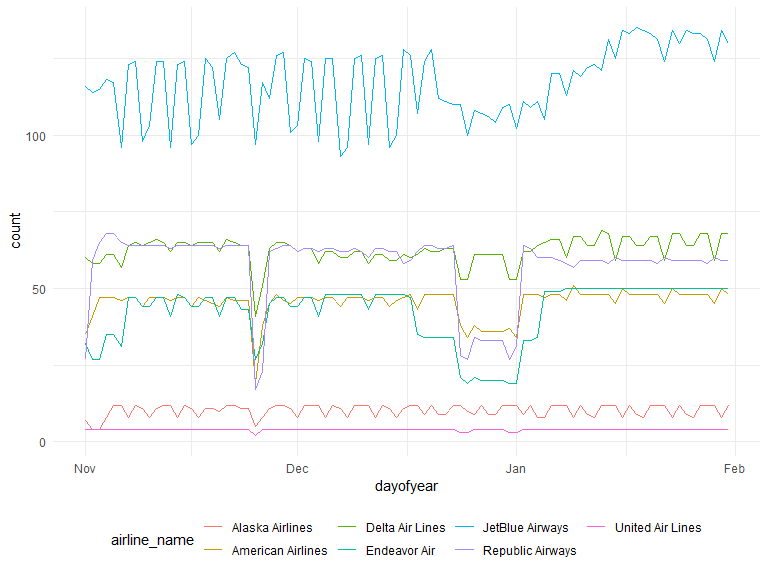
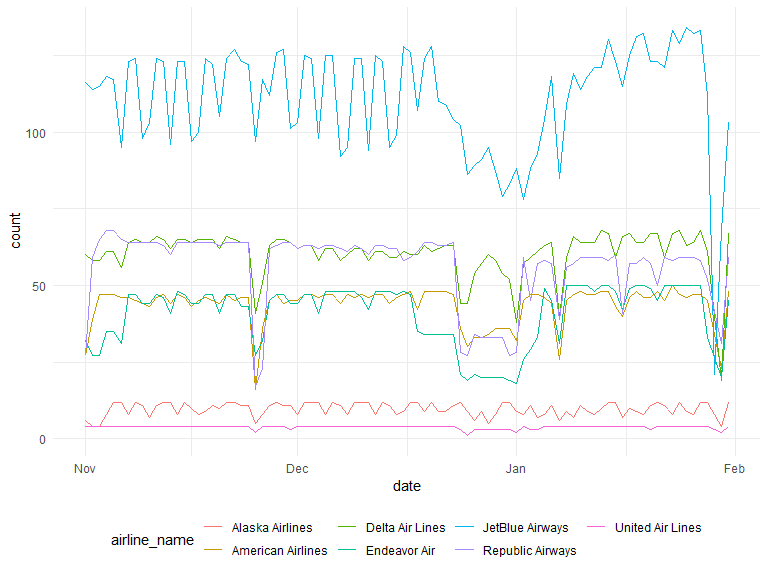
Update some visualization plots.

diff --git a/viz_and_eda.md b/viz_and_eda.md
@@ -3,53 +3,53 @@ Visualization and EDA
 
 ``` r
 delay %>% 
-  mutate(
-    date = as.numeric(date),
-    month = as.numeric(month),
-    month_date = str_c(year, month, date, sep = "-"),
-    dayofyear = as.Date(month_date)
-  ) %>% 
-  group_by(dayofyear, airline_name) %>% 
+  group_by(date, airline_name) %>% 
   summarize(
     count = n()
   ) %>% 
-  ggplot(aes(x = dayofyear, y = count, color = airline_name)) +
+  ggplot(aes(x = date, y = count, color = airline_name)) +
   geom_line()
 ```
 
-    ## `summarise()` has grouped output by 'dayofyear'. You can override using the
+    ## `summarise()` has grouped output by 'date'. You can override using the
     ## `.groups` argument.
 
 <img src="viz_and_eda_files/figure-gfm/unnamed-chunk-1-1.png" width="90%" />
 
 ``` r
-cancel_line = cancelation %>% 
-    mutate(
-    date = as.numeric(date),
-    month = as.numeric(month),
-    month_date = str_c(year, month, date, sep = "-"),
-    dayofyear = as.Date(month_date)
-  ) %>% 
-  group_by(dayofyear, airline_name) %>% 
+delay %>% 
+  filter(delay_minutes < 120, airline_name == "JetBlue Airways") %>% 
+  ggplot(aes(x = as.factor(month), y = delay_minutes)) +
+  geom_boxplot()
+```
+
+<img src="viz_and_eda_files/figure-gfm/unnamed-chunk-1-2.png" width="90%" />
+
+``` r
+delay %>% 
+  filter(delay_minutes < 0) %>% 
+  ggplot(aes(x = as.factor(month), y = delay_minutes)) +
+  geom_boxplot()
+```
+
+<img src="viz_and_eda_files/figure-gfm/unnamed-chunk-1-3.png" width="90%" />
+
+``` r
+cancel_line = cancel %>% 
+  group_by(date, airline_name) %>% 
   summarize(
     count = n()
   ) %>% 
-  ggplot(aes(x = dayofyear, y = count, color = airline_name)) +
+  ggplot(aes(x = date, y = count, color = airline_name)) +
   geom_line()
 ```
 
-    ## `summarise()` has grouped output by 'dayofyear'. You can override using the
+    ## `summarise()` has grouped output by 'date'. You can override using the
     ## `.groups` argument.
 
 ``` r
 covid_line = covid %>% 
-  mutate(
-    day = as.numeric(day),
-    month = as.numeric(month),
-    month_date = str_c(year, month, day, sep = "-"),
-    dayofyear = as.Date(month_date)
-  ) %>% 
-  ggplot(aes(x = dayofyear, y = case_count)) +
+  ggplot(aes(x = date, y = case_count)) +
   geom_line()
 
 cancel_line + covid_line
